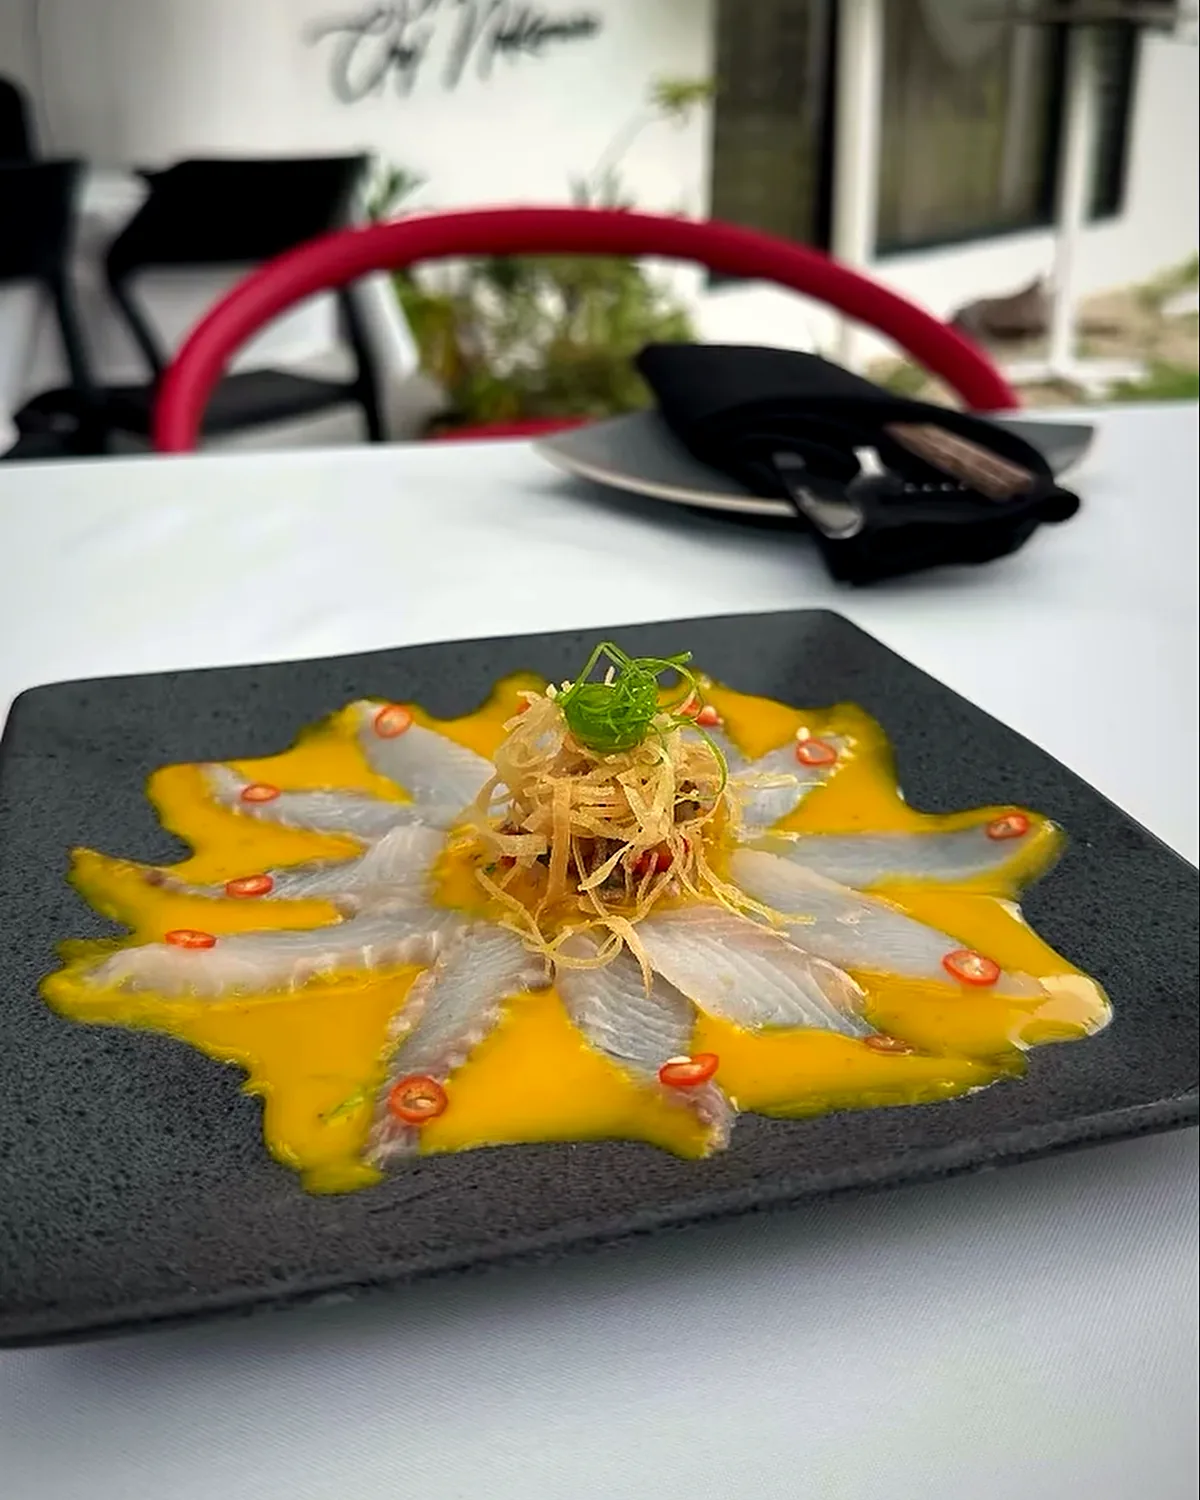
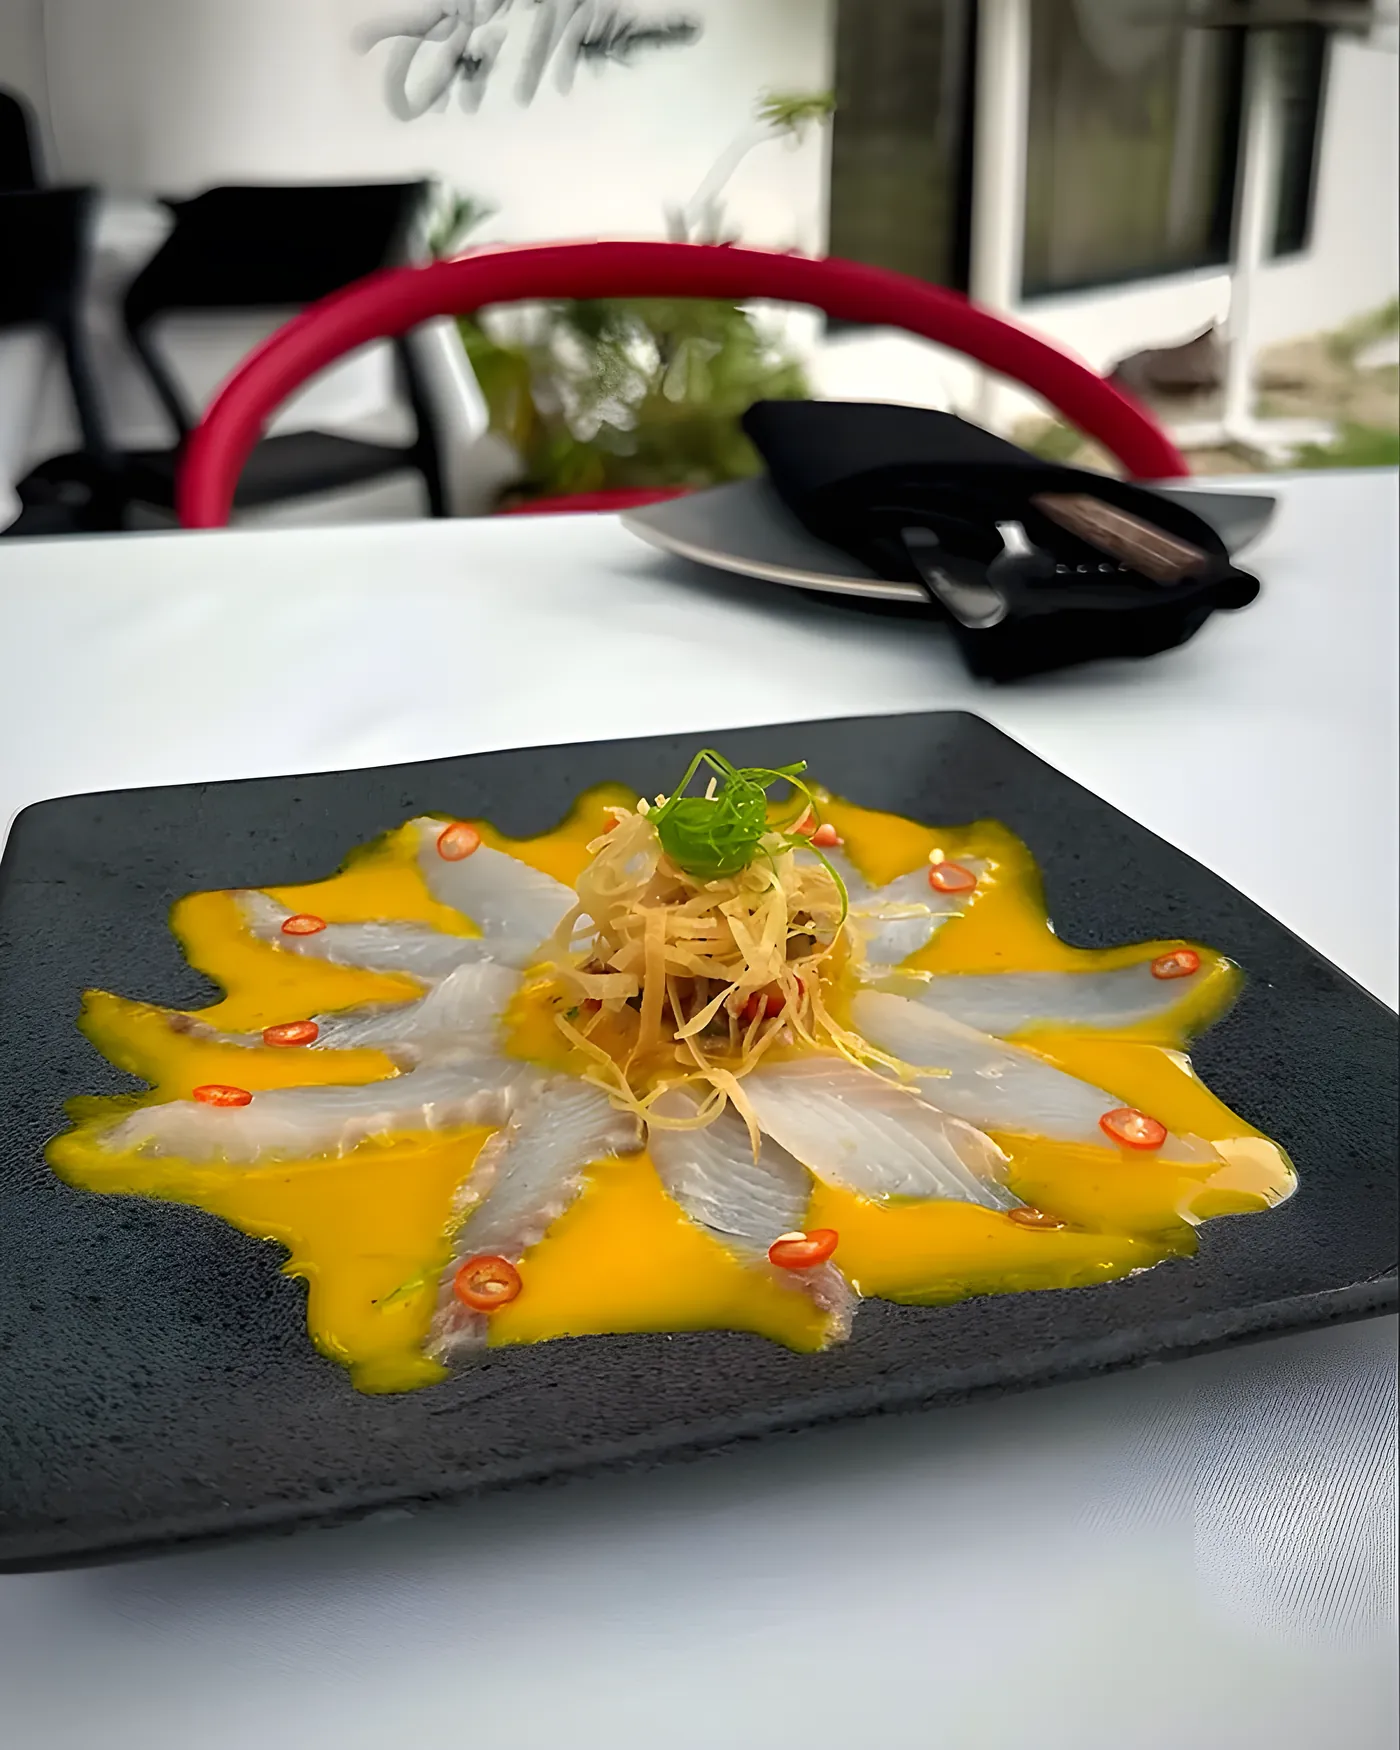
feat(media): fotos restauradas com super-resolução (Real-ESRGAN) em 1400px
As 21 fotos (pratos e bar) estavam moles (capturas ampliadas). Restauradas com
Real-ESRGAN x4plus mantendo o recorte e o tratamento de cor; saída 1400px WebP.
Card em destaque com foto horizontal usa 4:3 no celular (não corta as laterais).

diff --git a/data/media.ts b/data/media.ts
@@ -37,88 +37,88 @@ const photo = (id: string, width: number, height: number, alt: Localized): Media
   m({ id, kind: "image", src: `/media/${id}.webp`, width, height, alt, available: true });
 
 export const photos = {
-  hamachiRollNigiri: photo("hamachi-roll-nigiri", 1200, 1686, {
+  hamachiRollNigiri: photo("hamachi-roll-nigiri", 1400, 1967, {
     es: "Roll y nigiri de hamachi flameado sobre hoja de plátano",
     en: "Seared hamachi roll and nigiri on a banana leaf",
   }),
-  lomoSaltadoCausa: photo("lomo-saltado-causa", 1200, 1493, {
+  lomoSaltadoCausa: photo("lomo-saltado-causa", 1400, 1741, {
     es: "Lomo saltado con causa limeña y salsa criolla",
     en: "Lomo saltado with causa limeña and criolla salad",
   }),
-  arrozCamaron: photo("arroz-camaron", 1200, 1193, {
+  arrozCamaron: photo("arroz-camaron", 1400, 1391, {
     es: "Arroz salteado con camarones y huevo pochado en sartén de hierro",
     en: "Fried rice with shrimp and a poached egg in a cast-iron pan",
   }),
-  nigiriExperience: photo("nigiri-experience", 1200, 803, {
+  nigiriExperience: photo("nigiri-experience", 1400, 938, {
     es: "Selección de ocho nigiri alrededor de salsa de soya",
     en: "Selection of eight nigiri around soy sauce",
   }),
-  duckRice: photo("duck-rice", 1200, 1740, {
+  duckRice: photo("duck-rice", 1400, 2030, {
     es: "Arroz Nikkei con pato asado en sartén de hierro",
     en: "Nikkei rice with roasted duck in a cast-iron pan",
   }),
-  salmonRoll: photo("salmon-roll", 1200, 1767, {
+  salmonRoll: photo("salmon-roll", 1400, 2063, {
     es: "Roll de salmón flameado con salsa sobre mármol",
     en: "Seared salmon roll with sauce on marble",
   }),
-  artesanoDessert: photo("artesano-dessert", 1200, 1791, {
+  artesanoDessert: photo("artesano-dessert", 1400, 2091, {
     es: "Wontons crocantes con helado y chocolate",
     en: "Crispy wontons with ice cream and chocolate",
   }),
-  sashimiSelection: photo("sashimi-selection", 1200, 1734, {
+  sashimiSelection: photo("sashimi-selection", 1400, 2023, {
     es: "Selección de sashimi de atún y salmón sobre hielo",
     en: "Tuna and salmon sashimi selection on ice",
   }),
-  nagasakiBeefRice: photo("nagasaki-beef-rice", 1200, 1764, {
+  nagasakiBeefRice: photo("nagasaki-beef-rice", 1400, 2058, {
     es: "Carne glaseada sobre arroz salteado al wok",
     en: "Glazed beef over wok-fried rice",
   }),
-  mitokoTataki: photo("mitoko-tataki", 1200, 1791, {
+  mitokoTataki: photo("mitoko-tataki", 1400, 2091, {
     es: "Tataki de atún sellado con salsa y naranja",
     en: "Seared tuna tataki with sauce and orange",
   }),
-  wakameKukuSalad: photo("wakame-kuku-salad", 1200, 1760, {
+  wakameKukuSalad: photo("wakame-kuku-salad", 1400, 2053, {
     es: "Ensalada de wakame, mango, pepino y aguacate",
     en: "Wakame, mango, cucumber and avocado salad",
   }),
-  nigiriWine: photo("nigiri-wine", 1200, 1788, {
+  nigiriWine: photo("nigiri-wine", 1400, 2086, {
     es: "Nigiri variados con una copa de vino tinto",
     en: "Assorted nigiri with a glass of red wine",
   }),
   // Do Instagram @mikasa.restaurant (recortadas da publicação e tratadas)
-  tiradito: photo("tiradito", 1200, 1500, {
+  tiradito: photo("tiradito", 1400, 1750, {
     es: "Tiradito de pescado blanco con salsa amarilla, ají y crocante",
     en: "White fish tiradito with yellow sauce, chili and crispy garnish",
   }),
-  robataSteak: photo("robata-steak", 1200, 1373, {
+  robataSteak: photo("robata-steak", 1400, 1601, {
     es: "Corte de res a la parrilla en láminas con ensalada, vegetales y puré",
     en: "Sliced grilled beef with salad, vegetables and purée",
   }),
-  barWhisky: photo("bar-whisky-kamiki", 1000, 1470, {
+  barWhisky: photo("bar-whisky-kamiki", 1400, 2058, {
     es: "Whisky japonés Kamiki Blended Malt con su estuche",
     en: "Kamiki Japanese blended malt whisky with its box",
   }),
-  barVinos: photo("bar-vinos", 1000, 1551, {
+  barVinos: photo("bar-vinos", 1400, 2172, {
     es: "Botellas de vino Ramón Bilbao y Minuty Côtes de Provence en la terraza de MIKASA",
     en: "Ramón Bilbao and Minuty Côtes de Provence wine bottles on the MIKASA terrace",
   }),
-  barHatsu: photo("bar-hatsu-tea", 1000, 1606, {
+  barHatsu: photo("bar-hatsu-tea", 1400, 2249, {
     es: "Botellas de Hatsu tea frente a la entrada de MIKASA",
     en: "Hatsu tea bottles in front of the MIKASA entrance",
   }),
-  mochiIceCream: photo("mochi-ice-cream", 720, 900, {
+  mochiIceCream: photo("mochi-ice-cream", 1400, 1750, {
     es: "Mochi con helado de la casa servido en sartén negra",
     en: "Mochi with house-made ice cream served in a black pan",
   }),
-  spicyTunaSavageRoll: photo("spicy-tuna-savage-roll", 720, 900, {
+  spicyTunaSavageRoll: photo("spicy-tuna-savage-roll", 1400, 1750, {
     es: "Spicy Tuna Savage Roll con atún picante sobre bandeja de pizarra",
     en: "Spicy Tuna Savage Roll topped with spicy tuna on a slate tray",
   }),
-  generalTso: photo("general-tso", 720, 900, {
+  generalTso: photo("general-tso", 1400, 1750, {
     es: "General Tso con ajonjolí sobre arroz, servido en sartén de hierro",
     en: "General Tso with sesame over rice, served in a cast-iron pan",
   }),
-  nigiriAtun: photo("nigiri-atun", 960, 1200, {
+  nigiriAtun: photo("nigiri-atun", 1400, 1750, {
     es: "Cuatro nigiri de atún con hoja de shiso y salsa de soya",
     en: "Four tuna nigiri with a shiso leaf and soy sauce",
   }),

diff --git a/components/menu/menu-explorer.tsx b/components/menu/menu-explorer.tsx
@@ -199,7 +199,7 @@ function FeatureCard({ item, lang, wide, onOpen }: { item: MenuItem; lang: Local
         onClick={() => onOpen(item)}
         className={cn("group grid h-full w-full text-left", side ? "gap-6 md:grid-cols-2 md:items-center md:gap-10" : "content-start gap-6")}
       >
-        <div className={cn("relative w-full overflow-hidden border border-line bg-carvao", panorama ? "aspect-[4/5] md:aspect-[16/9]" : "aspect-[4/5]")}>
+        <div className={cn("relative w-full overflow-hidden border border-line bg-carvao", panorama ? "aspect-[4/3] md:aspect-[16/9]" : "aspect-[4/5]")}>
           <MediaFrame
             asset={item.imagem}
             lang={lang}
